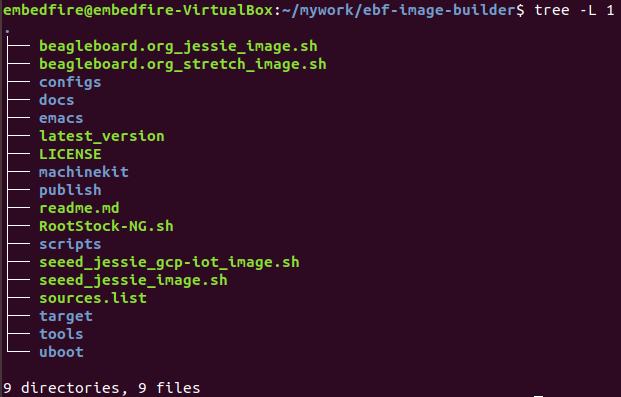
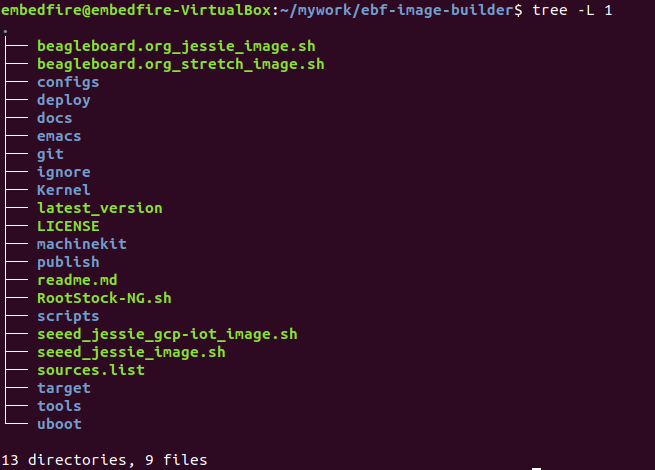
1、修改4.19内核安装方式。 2、增加debian修改启动logo说明。 3、调整熟悉开发板目录:原第二小节fire-config改到第五小节

Changed region(s): [[0.0, 0.0, 1.0, 1.0], [0.8567, 0.9975, 0.8873, 1.0], [0.7955, 0.9975, 0.8261, 1.0]]

diff --git a/documentation/building_image/building_debian.rst b/documentation/building_image/building_debian.rst
@@ -19,31 +19,24 @@
 
 野火移植2019.04版本uboot，在其中完善了对内核设备树插件的支持，提高了系统的扩展性和可维护性。
 
-1、下载野火2019版本uboot，代码已经托管在github上，直接执行以下命令进行下载即可:
+1、下载野火2019版本uboot，代码已经托管在github以及gitee上，直接执行以下命令进行下载即可:
 
 .. code-block:: sh
    :emphasize-lines: 1
    :linenos:
 
    git clone https://github.com/Embedfire/ebf-buster-uboot.git
+   或者
+   git clone https://gitee.com/wildfireteam/ebf-buster-uboot.git
 
-2、检查交叉编译工具链是否正常
-
-.. code-block:: sh
-   :emphasize-lines: 1
-   :linenos:
-
-   arm-none-eabi-gcc -v
-   # 输出
-   gcc version 6.3.1 20170620 (15:6.3.1+svn253039-1build1)
-
-如果系统还没安装交叉编译工具链，使用以下命令进行安装:
+2、先在系统执行以下命令，安装必要的环境工具，再进行uboot的编译。
 
 .. code-block:: sh
    :emphasize-lines: 1
    :linenos:
 
-   sudo apt-get install gcc-arm-none-eabi
+   sudo apt install make gcc-arm-none-eabi gcc bison flex libssl-dev dpkg-dev lzop
+
 
 3、在项目文件夹目录下使用root权限执行编译脚本compile_uboot.sh
 
@@ -53,36 +46,29 @@
 
    sudo ./compile_uboot.sh
 
-编译结束后，会在当前文件夹路径下生成u-boot-dtb.imx文件，这就是我们需要的uboot镜像。
+编译结束后，会在当前文件夹路径下生成u-boot-dtb.imx文件，这就是我们需要的uboot镜像,
+该uboot镜像需要存放到下面介绍的ebf-image-builder项目的uboot目录中，来进行系统固件的生成。
 
 编译4.19.71版本内核
 =========================
 
-1、下载野火4.19.71版本内核，代码已经托管在github上，直接执行以下命令进行下载即可:
+1、下载野火4.19.71版本内核，代码已经托管在github以及gitee上，直接执行以下命令进行下载即可:
 
 .. code-block:: sh
    :emphasize-lines: 1
    :linenos:
 
    git clone https://github.com/Embedfire/ebf-buster-linux.git
+   或者
+   git clone https://gitee.com/wildfireteam/ebf-buster-linux.git
 
-2、检查交叉编译工具链是否正常
-
-.. code-block:: sh
-   :emphasize-lines: 1
-   :linenos:
-
-   arm-none-eabi-gcc -v
-   # 输出
-   gcc version 6.3.1 20170620 (15:6.3.1+svn253039-1build1)
-
-如果系统还没安装交叉编译工具链，使用以下命令进行安装:
+2、先在系统执行以下命令，安装必要的环境工具，再进行内核的编译。
 
 .. code-block:: sh
    :emphasize-lines: 1
    :linenos:
 
-   sudo apt-get install gcc-arm-none-eabi
+   sudo apt install make gcc-arm-none-eabi gcc bison flex libssl-dev dpkg-dev lzop
 
 3、在项目文件夹目录下使用root权限执行编译脚本make_deb.sh
 
@@ -93,7 +79,7 @@
    sudo ./make_deb.sh
 
 编译结束后，会在/home/pi路径下生成linux-image-4.19.71-imx-r1_1stable_armhf.deb，这就是4.19.71版本linux内核的安装包。
-
+该内核安装包需要存放到下面介绍的ebf-image-builder项目的Kernel目录中，来进行系统固件的生成。
 
 制作Debian系统镜像
 =============================
@@ -175,6 +161,8 @@ ebf-image-builde目录分析
    :linenos:
 
     git clone https://github.com/Embedfire/ebf-image-builder.git
+    或者
+    git clone https://gitee.com/wildfireteam/ebf-image-builder.git
 
 出现下图提示表示克隆完成
 
@@ -205,7 +193,8 @@ ebf-image-builde目录分析
 - scripts目录:存放了一些执行特殊功能的脚本，在编译过程中会被调用。
 - target目录:这里面放置的内容比较杂散，有启动参数的说明文档、systemd的启动服务和deb镜像源的密钥等等。
 - tools目录:主要是打包脚本，完成把文件系统和uboot打包成img镜像的功能。
-- uboot目录:放置的是uboot固件。
+- Kernel目录:存放的是前面编译出来的内核安装包(linux-image-4.19.71-imx-r1_1stable_armhf.deb)。
+- uboot目录:存放前面编译出来的uboot固件(u-boot-dtb.imx)。
 
 ebf-image-builde编译Debian固件
 ~~~~~~~~~~~~~~~~~~~~~~~~~~~~~~
@@ -264,3 +253,110 @@ Debian系统镜像存放下面目录中
 烧录完成后，开发板第一次用sd卡方式启动时，系统会自动进行扩容重启，
 以保证充分利用sd卡存储空间。扩容完毕后，系统重启生效。
 
+修改启动logo步骤
+~~~~~~~~~~~~~~~~~~~~~
+
+其实在野火开发板的固件中，uboot是没有logo的，因为将uboot的logo删掉了，因为在内核有logo，而uboot到内核的时间非常短（已经将uboot等待
+3S时间去掉了），所以直接使用内核的logo会更好，那么如果想要使用内核的logo，就得自己去修改内核的logo，下面就教大家如何去做。
+
+准备一张图片
+""""""""
+
+我们可以随便准备一张图片，比如我们就选择ubuntu的logo吧，将它制作成适合显示屏大小的图片，比如5寸屏幕的分辨率是800*480：
+
+.. figure:: media/building_kernel006.png
+   :alt: building_kernel006
+
+   building_kernel006
+
+然后将其保存为\ **256色（即8位色）的bpm格式的图片**\ ，可以在Windows下或者Linux虚拟机下编辑：
+
+.. figure:: media/building_kernel007.png
+   :alt: building_kernel007
+
+   building_kernel007
+
+转换为ppm格式的图片
+""""""""
+
+1、安装格式转换工具
+
+   sudo apt install netpbm -y
+
+2、在Linux下使用以下脚本将其转换为ppm格式的文件，为什么是ppm格式呢？
+因为这是编译Linux内核必要的文件格式，想要修改logo，就要这种格式的文件，
+它必须是\ **256色（即8位色）的bpm格式的图片**\ 转换而成的。
+
+.. code:: bash
+
+    #!/bin/bash
+    if [ " $1" == " " ];
+    then
+        echo "usage:$0 bmp_file"
+        exit 0
+    fi
+
+    if [ -f "$1" ]
+    then
+        echo $1
+    else
+        echo "no find file [$1]"
+        exit 0
+    fi
+
+    name=${1%%.*}
+    bmptopnm $1 > $name.pnm
+    pnmquant 224 $name.pnm > $name.clut224.pnm
+    pnmtoplainpnm $name.clut224.pnm > $name.ppm
+    rm $name.pnm $name.clut224.pnm 
+
+这是bmp文件转换ppm格式文件的脚本，可以将其写入一个叫\ ``bmp2ppm.sh``\ 脚本文件中，并且赋予其可执行的权限（使用
+``chmod +x bmp2ppm.sh``
+命令即可），它主要是使用linux系统中的工具转换，如果系统中没有相关工具，则根据提示使用\ ``apt install``\ 命令进行安装即可。
+
+然后将准备好的bmp文件拷贝到制作ppm的工作目录下，使用\ ``bmp2ppm.sh``\ 脚本将其转化为ppm文件，具体操作如下：
+
+.. code:: bash
+
+    ➜  bmp2ppm git:(master) ✗ ls
+    bmp2ppm.sh  README.md  ubuntu.bmp
+
+    ➜  bmp2ppm git:(master) ✗ ./bmp2ppm.sh ubuntu.bmp 
+    ubuntu.bmp
+    bmptopnm: Windows BMP, 800x480x8
+    bmptopnm: WRITING PPM IMAGE
+    pnmcolormap: making histogram...
+    pnmcolormap: 29 colors found
+    pnmcolormap: Image already has few enough colors (<=224).  Keeping same colors.
+    pnmremap: 29 colors found in colormap
+
+    ➜  bmp2ppm git:(master) ✗ ls
+    bmp2ppm.sh  README.md  ubuntu.bmp  ubuntu.ppm
+
+替换原本的logo文件
+""""""""
+
+1、在转换完成后，当前目录将出现对应的ppm文件，我们将其拷贝到linux内核源码的\ `` ebf-buster-linux/drivers/video/logo``\ 目录下，因为我们的logo是存放在此处的，野火提供的logo：
+
+-  默认编译的logo：logo_linux_clut224.ppm
+
+2、将你编译的ppm文件重命名为logo_linux_clut224.ppm，替换掉内核中旧的logo_linux_clut224.ppm文件。
+
+3、按照上面的编译步骤，重新编译内核，把编译得到的内核安装包(linux-image-4.19.71-imx-r1_1stable_armhf.deb)，
+复制粘贴到ebf-image-builder项目中的Kernel文件夹下，重新在ebf-image-builder项目中编译得到新的.img格式系统镜像。
+
+修改启动脚本
+""""""""
+
+把新的.img格式系统镜像烧录到sd卡中，启动开发板。此时会出现一个现象，logo一闪而过，这是因为内核启动后，
+会执行文件系统的启动脚本，而此时文件系统的启动脚本中\ ``/opt/scripts/boot/psplash.sh``\
+会去执行相应的应用程序\ ``/usr/bin/psplash``\ ，这就是绘制开机的进度条与背景。那么你的开机logo将被刷掉，
+而只要不让这个启动脚本运行这个\ ``/usr/bin/psplash``\ 应用程序就可以解决问题了，
+那么我们在开发板中使用vi编辑器修改脚本\ ``/opt/scripts/boot/psplash.sh``\ 。
+
+如下图:
+
+.. figure:: media/stop_psplash.png
+   :alt: 停止进度条
+
+将其最后一行屏蔽掉，然后重启开发板，就可以看见你的logo了并且没有了进度条程序。

diff --git a/documentation/index.rst b/documentation/index.rst
@@ -39,9 +39,9 @@
 
    linux_basis/ebf6ull_hardware
    install_image/install_debian_to_sd
-   linux_basis/fire-config_brief
    linux_basis/board_startup
    linux_basis/system_information
+   linux_basis/fire-config_brief
    linux_basis/led_key_command_line_testing
    linux_basis/script_hardware_testing
    #linux_basis/ec20_4g_module
